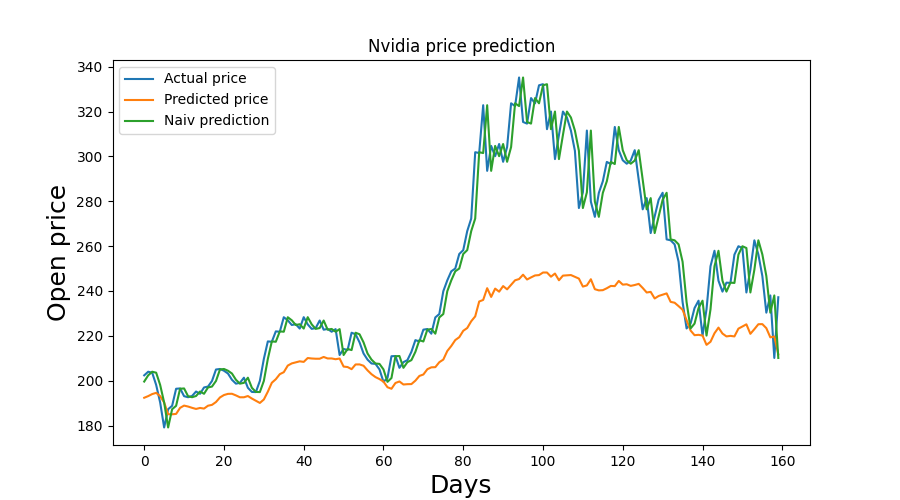
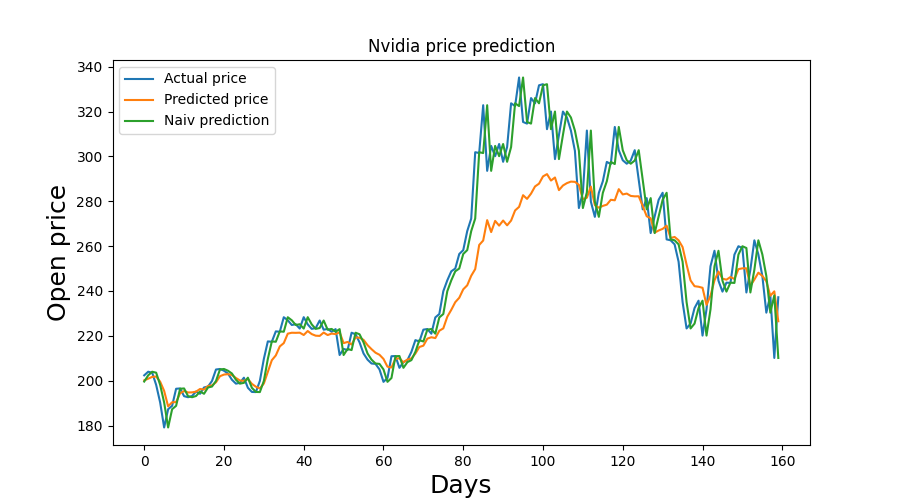
hyperparameter changes

diff --git a/models/lstm.py b/models/lstm.py
@@ -37,9 +37,9 @@ class BasicModel(BaseLSTM):
 class ComplexModel(BaseLSTM):
     def __init__(self, sequence_length) -> None:
         super().__init__()
-        self.model.add(LSTM(128, return_sequences=True, input_shape = (sequence_length, 2)))
+        self.model.add(LSTM(512, return_sequences=True, input_shape = (sequence_length, 2)))
         self.model.add(Dropout(0.3))
-        self.model.add(LSTM(128, return_sequences=True))
+        self.model.add(LSTM(256, return_sequences=True))
         self.model.add(Dropout(0.3))
         self.model.add(LSTM(128))
         self.model.add(Dropout(0.3))

diff --git a/stock-prediction.py b/stock-prediction.py
@@ -125,8 +125,6 @@ def prediction_with_complex_lstm(x_train:np.array, y_train:np.array, x_test:np.a
         "Loss"
     )
 
-    np.save('saves/complex_prediction.npy', predicted)
-
 def prediction_with_esn(x_train:np.array, y_train:np.array, x_test:np.array, y_test:np.array, scaled:np.array, scaler:MinMaxScaler):
     model = ESNModel(500)
     ESN_FUTURE = 2

diff --git a/README.md b/README.md
@@ -84,7 +84,7 @@ It can be seen that this model gives similar results to the Simple LSTM model. E
 
 ![Complex model regression](images/Complex-model-regression.png)
 
-Mean Absolute Error on test set: 0.13
+Mean Absolute Error on test set: 0.07
 
 ### ESN model
 
